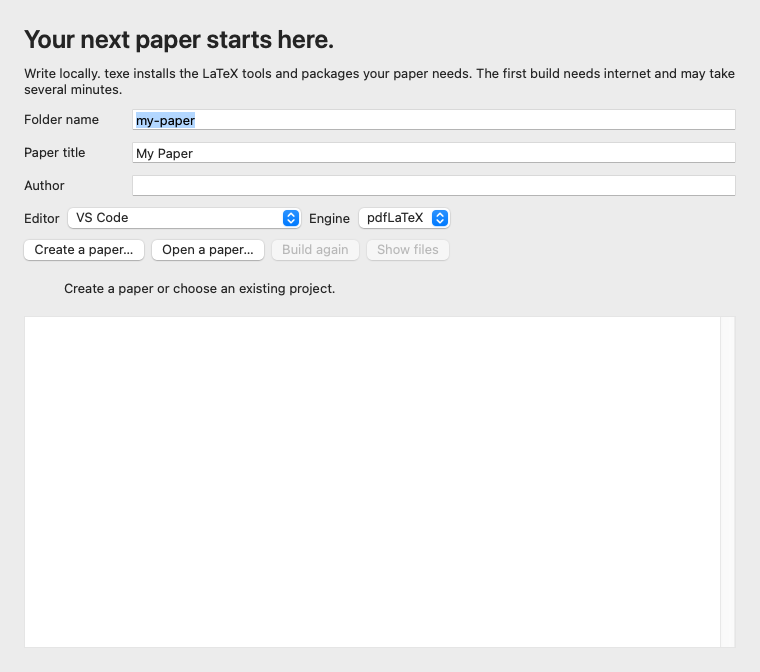
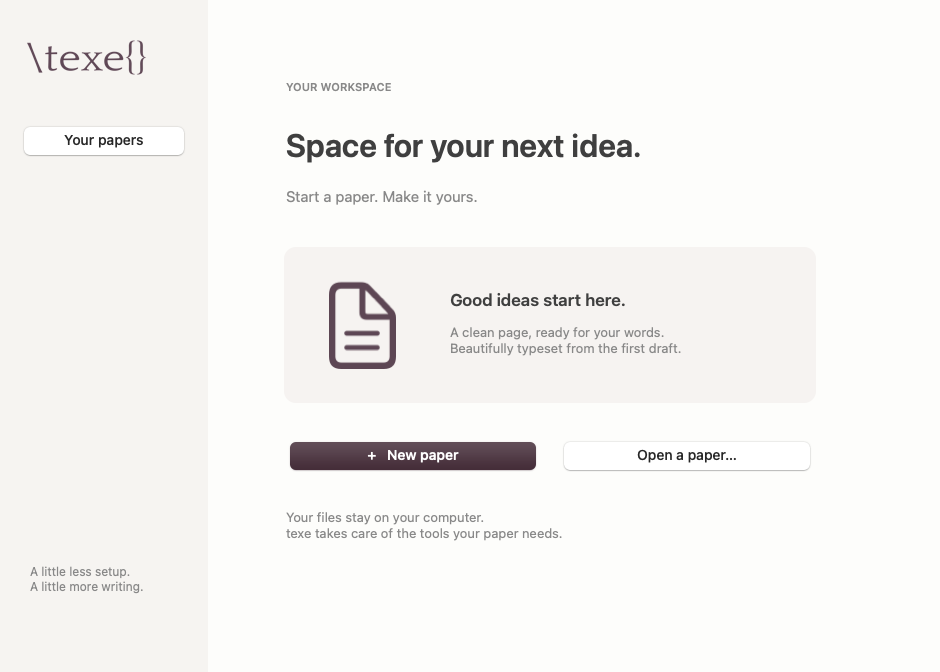
docs(desktop): replace utility screenshots with the new native design

diff --git a/docs/previews/README.md b/docs/previews/README.md
@@ -1,11 +1,11 @@
 # Native interface previews
 
 These screenshots were rendered by the real AppKit and Windows Forms apps on
-GitHub's macOS 15 and Windows Server 2025 runners, from commit `9d134d5`.
+GitHub's macOS 15 and Windows Server 2025 runners, from commit `ea50491`.
 The Windows title bar reflects the server runner's theme. These are screenshots,
 not interactive browser versions of the apps.
 
-- [macOS](macos.png)
-- [Windows](windows.png)
+- [macOS home](macos.png) and [new paper](macos-setup.png)
+- [Windows home](windows.png) and [new paper](windows-setup.png)
 
-[Capture run](https://github.com/backmatter/texe/actions/runs/34377671183)
+[Capture run](https://github.com/backmatter/texe/actions/runs/34380929593)
